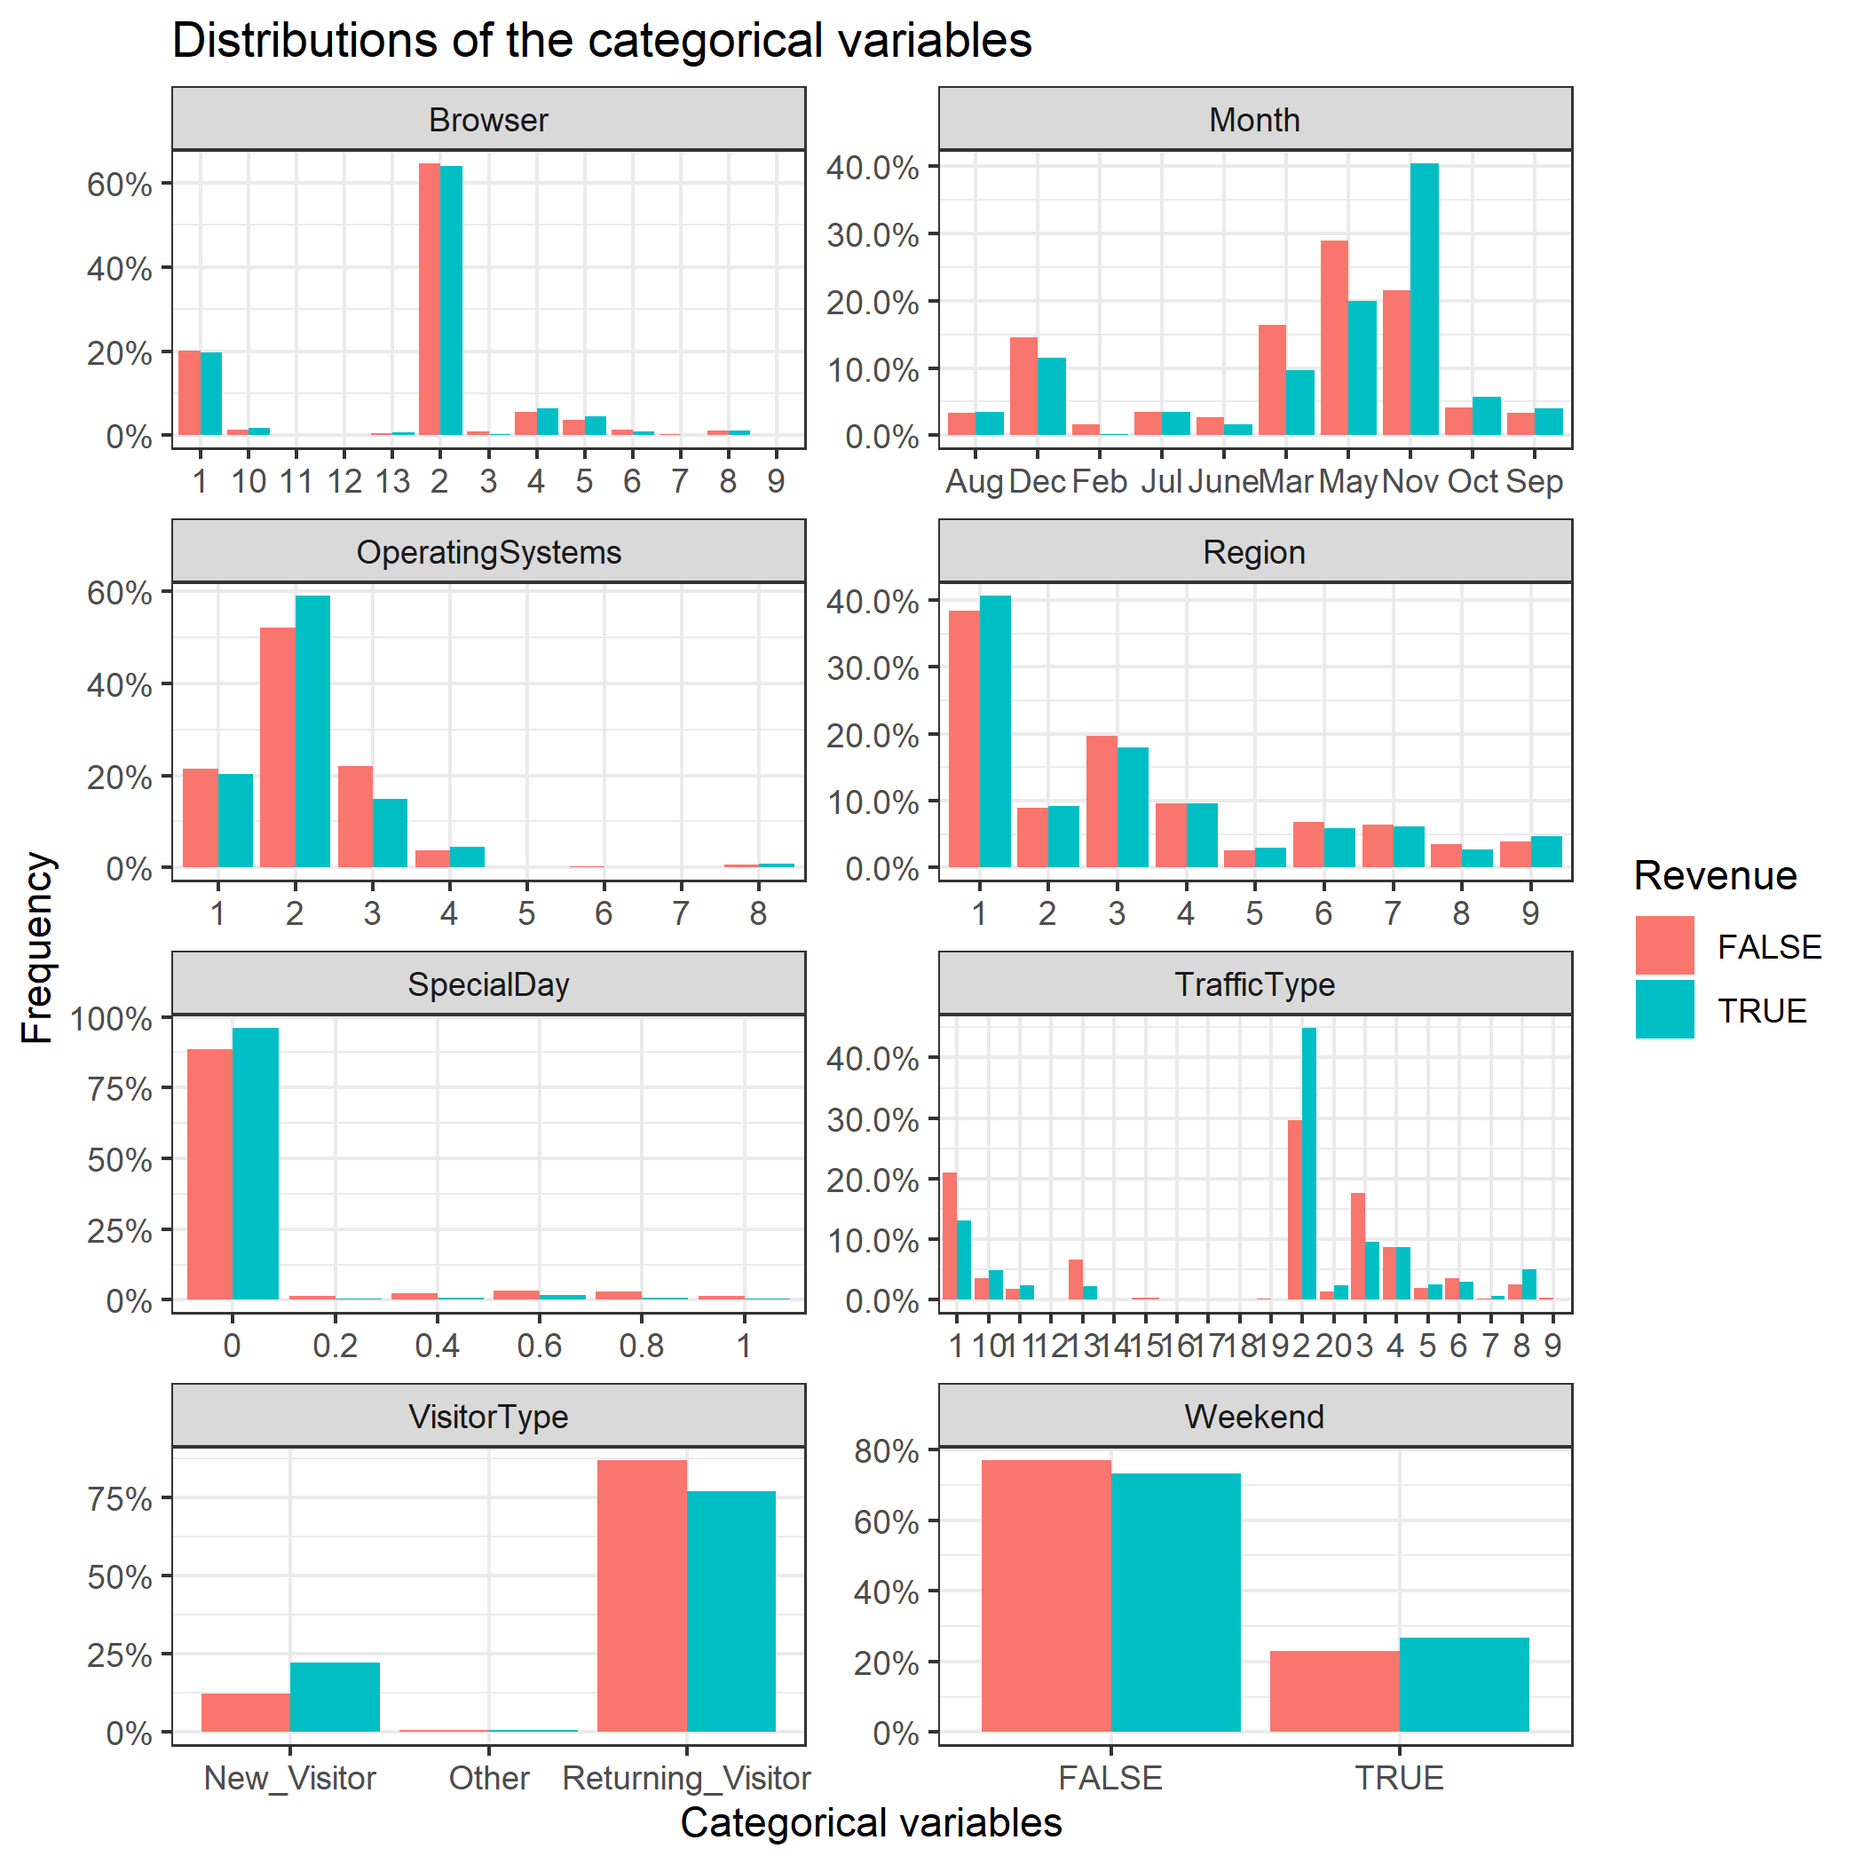
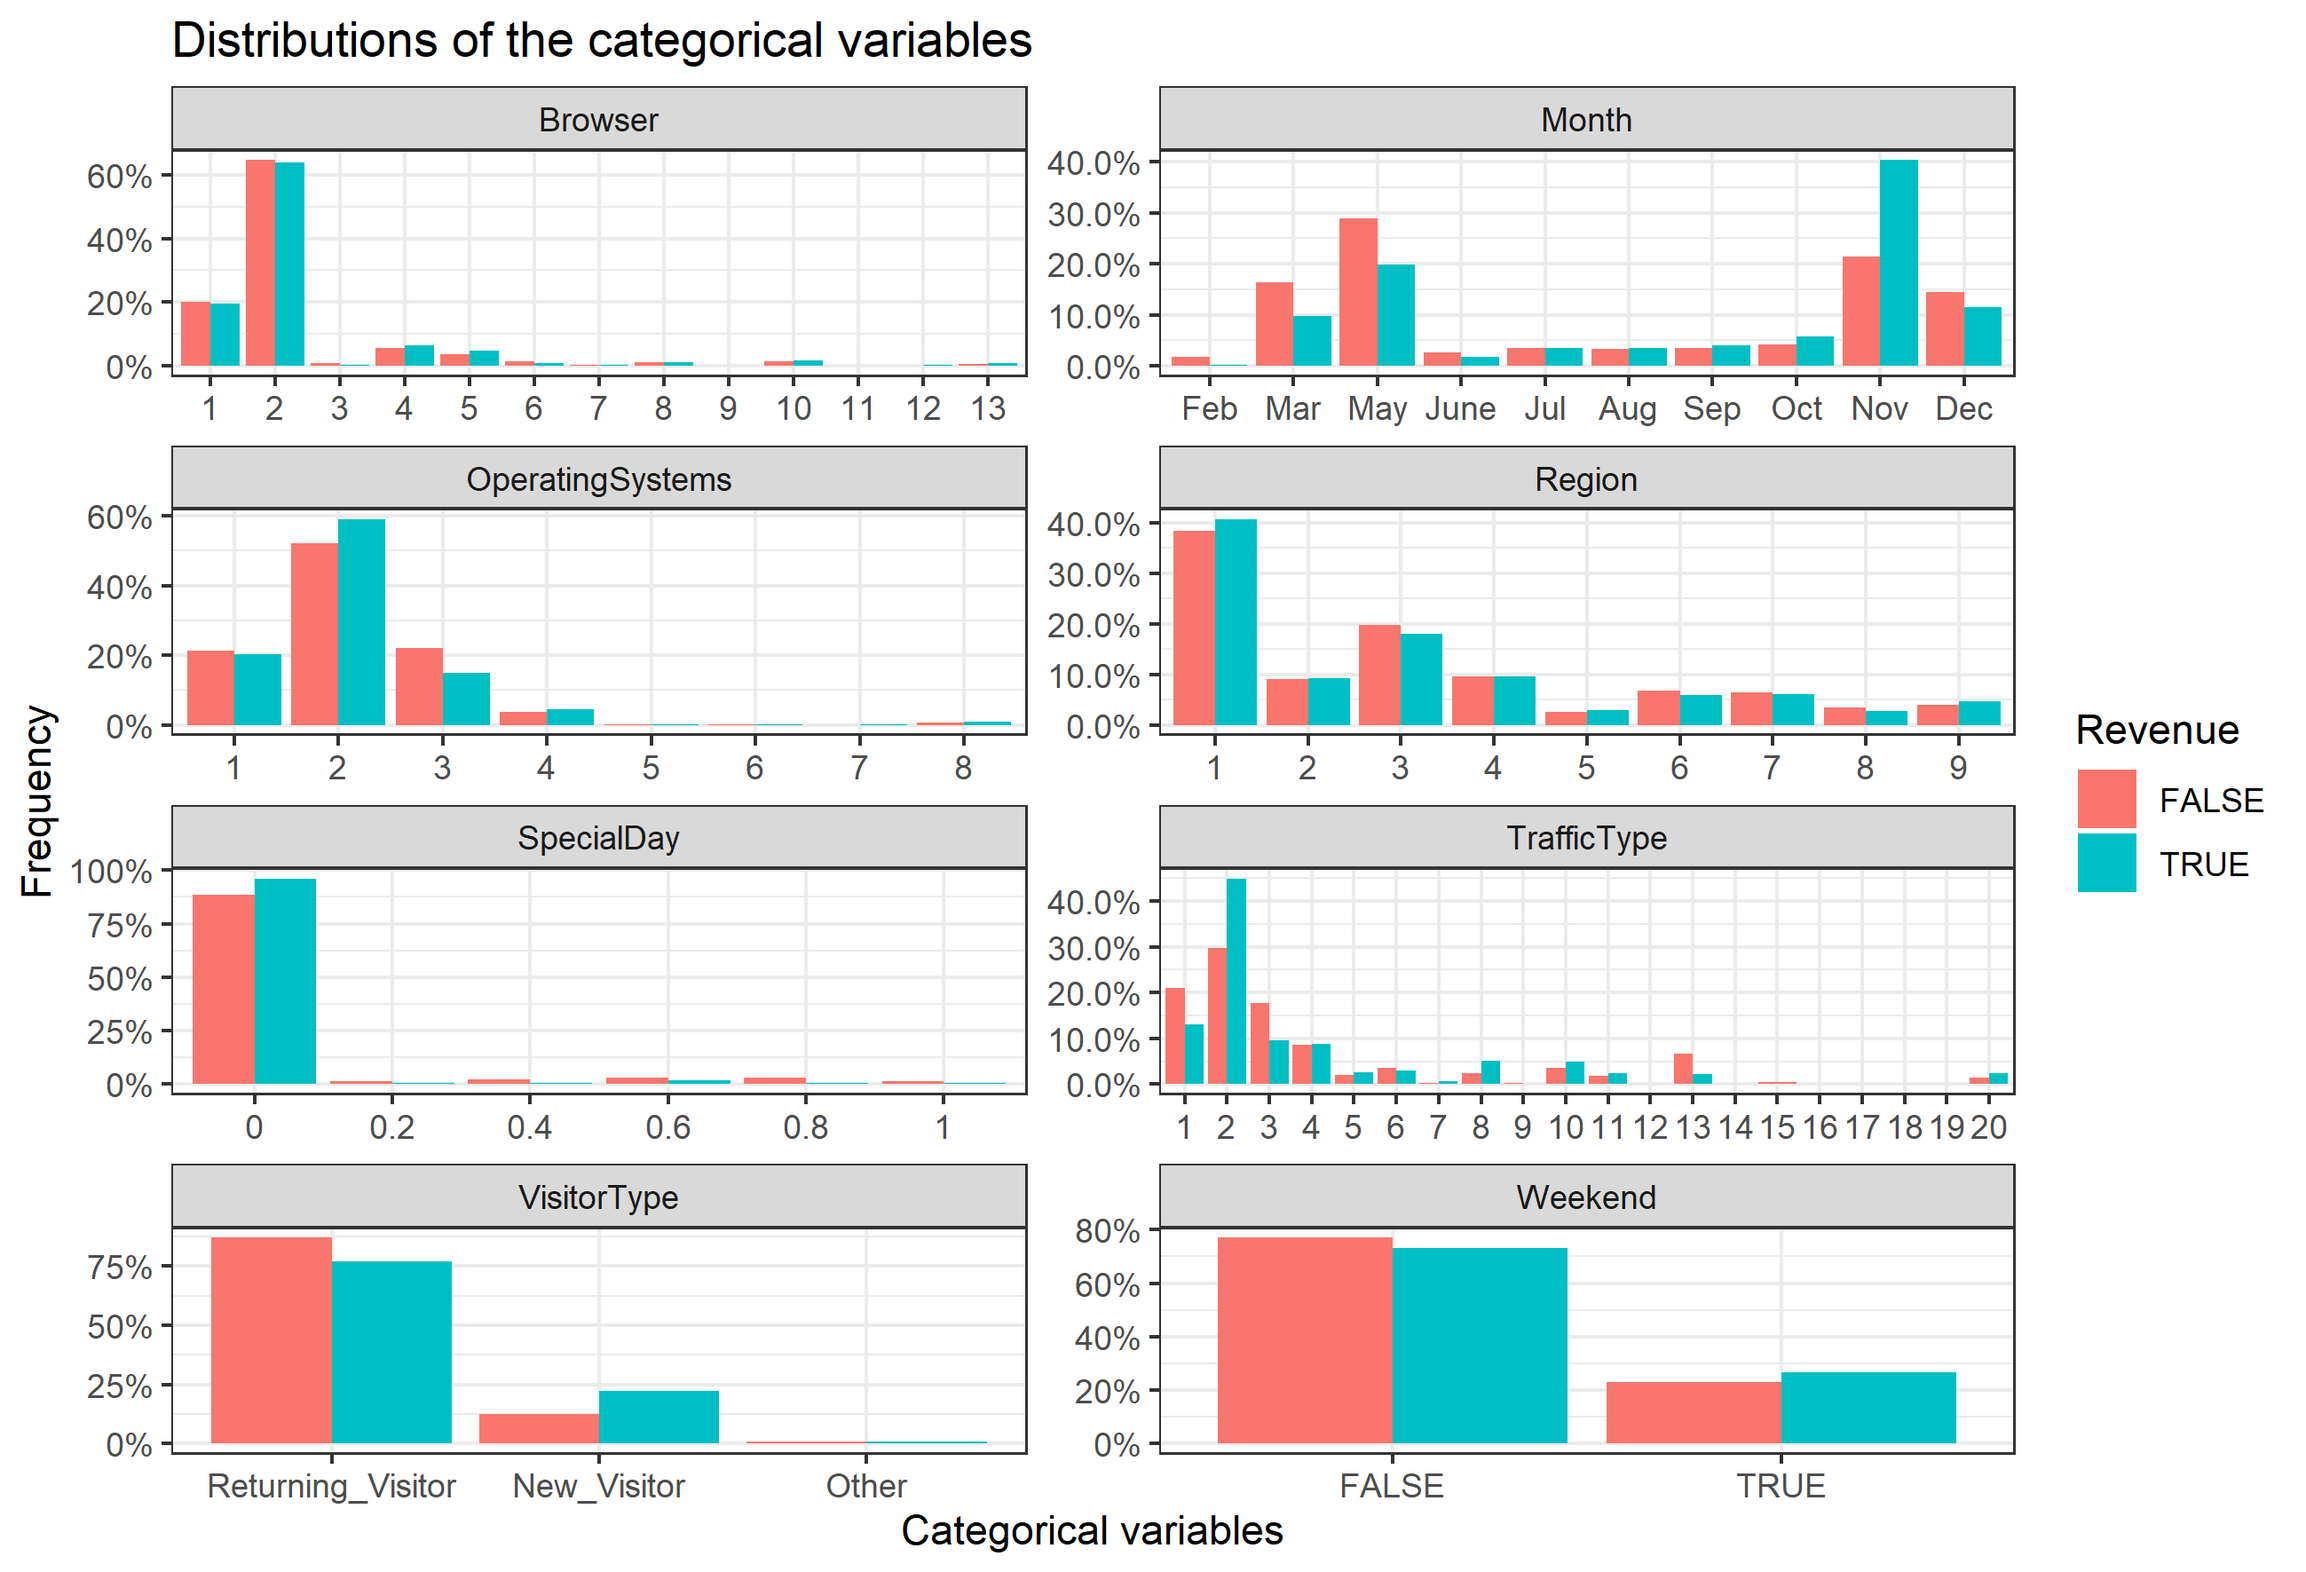
add tests on eda.R, pre_process.py and reorder the factor level

Changed region(s): [[0.0, 0.0, 0.9905, 0.9938]]

diff --git a/src/pre_process.py b/src/pre_process.py
@@ -1,5 +1,5 @@
 # Author Cheng Min
-# Date: 2020-01-23
+# Date: 2020-01-30
 
 """Cleans, splits and pre-processes (scales) the online shoppers intetion data from UCI website:
    https://archive.ics.uci.edu/ml/datasets/Online+Shoppers+Purchasing+Intention+Dataset
@@ -75,6 +75,11 @@ def main(input_data, out_dir):
     pd.DataFrame(y_train).to_csv(out_dir + "/y_train.csv", index=False)
     X_test.to_csv(out_dir + "/X_test.csv", index=False)
     pd.DataFrame(y_test).to_csv(out_dir + "/y_test.csv", index=False)
+    
+def test_input(input):
+   assert input.endswith(".csv"), "Input should be .csv file, please check your input!"
+
+test_input(opt["--input"])
 
 if __name__ == "__main__":
     main(opt["--input"], opt["--out_dir"])
